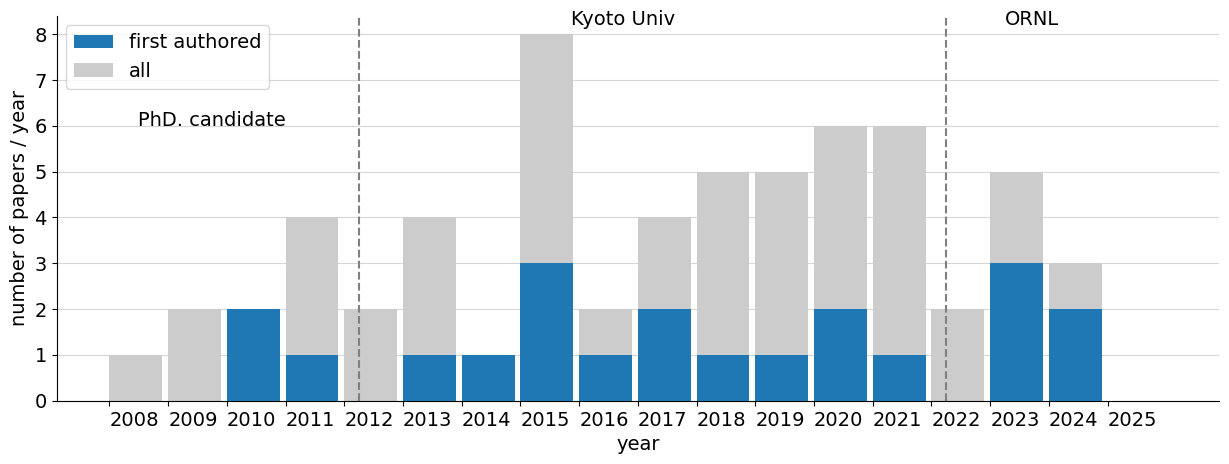
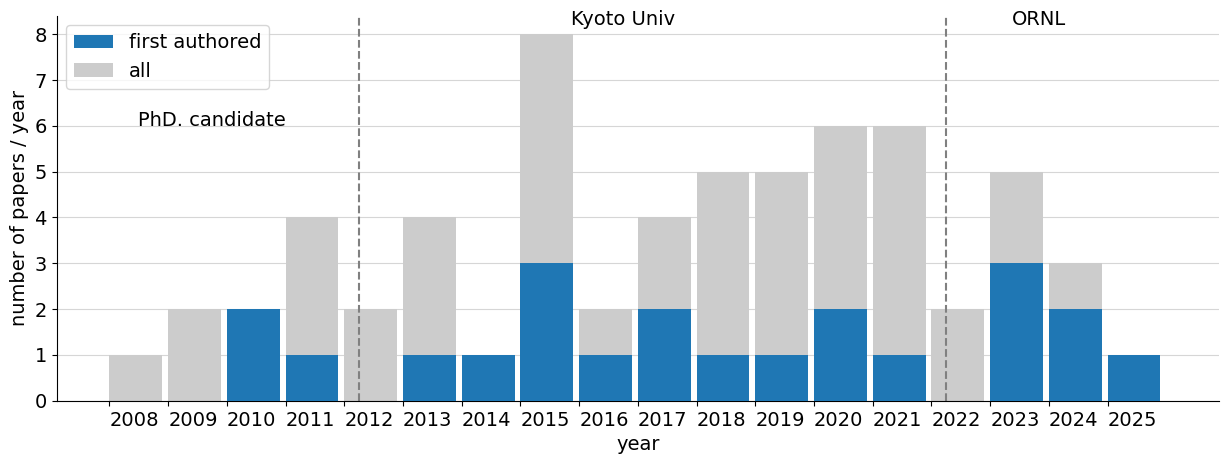
Updated papers

Changed region(s): [[0.8967, 0.7543, 0.9585, 0.875], [0.8039, 0.0, 0.8657, 0.0603]]

diff --git a/publications/index.md b/publications/index.md
@@ -3,133 +3,143 @@ layout: publications
 ---
 
 # List of selected papers
-1. **Collisional-energy-cascade model for nonthermal velocity distributions of neutral atoms in plasmas**  
+1. **A scaling law of the neutral penetration length and Balmer-α wing shape in high-temperature plasmas**  
+ **<u>Keisuke Fujii</u>**, Masahiro Hasuo, Motoshi Goto, Jeremy D. Lore  
+ *Nuclear Fusion* **65,** 066014 (2025)  
+<a href="https://doi.org/10.1088/1741-4326/add358">10.1088/1741-4326/add358</a>  
+
+2. **Collisional-energy-cascade model for nonthermal velocity distributions of neutral atoms in plasmas**  
  **<u>Keisuke Fujii</u>**  
  *Physical Review E* **108,** 025204 (2023)  
 <a href="https://doi.org/10.1103/PhysRevE.108.025204">10.1103/PhysRevE.108.025204</a>  
 
-2. **Power-Law Intensity Distribution of γ-Decay Cascades: Nuclear Structure as a Scale-Free Random Network**  
+3. **Power-Law Intensity Distribution of γ-Decay Cascades: Nuclear Structure as a Scale-Free Random Network**  
  **<u>Keisuke Fujii</u>**, Julian C. Berengut  
  *Physical Review Letters* **126,** 102502 (2021)  
 <a href="https://doi.org/10.1103/PhysRevLett.126.102502">10.1103/PhysRevLett.126.102502</a>  
 
-3. **Simple Explanation for the Observed Power Law Distribution of Line Intensity in Complex Many-Electron Atoms**  
+4. **Simple Explanation for the Observed Power Law Distribution of Line Intensity in Complex Many-Electron Atoms**  
  **<u>Keisuke Fujii</u>**, Julian C. Berengut  
  *Physical Review Letters* **124,** 185002 (2020)  
 <a href="https://doi.org/10.1103/physrevlett.124.185002">10.1103/physrevlett.124.185002</a>  
 
-4. **Study of neutral hydrogen transport in LHD core plasmas based on high dynamic-range Balmer-αspectroscopy**  
+5. **Study of neutral hydrogen transport in LHD core plasmas based on high dynamic-range Balmer-αspectroscopy**  
  **<u>K. Fujii</u>**, M. Goto, S. Morita,  The LHD Experiment Group  
  *Nuclear Fusion* **55,** 063029 (2015)  
 <a href="https://doi.org/10.1088/0029-5515/55/6/063029">10.1088/0029-5515/55/6/063029</a>  
 
-5. **Development of a high dynamic range spectroscopic system for observation of neutral hydrogen atom density distribution in Large Helical Device core plasma**  
+6. **Development of a high dynamic range spectroscopic system for observation of neutral hydrogen atom density distribution in Large Helical Device core plasma**  
  **<u>K. Fujii</u>**, S. Atsumi, S. Watanabe, T. Shikama, M. Goto, S. Morita, M. Hasuo  
  *Review of Scientific Instruments* **85,** 023502 (2014)  
 <a href="https://doi.org/10.1063/1.4863650">10.1063/1.4863650</a>  
 
 # List of papers (first- and corresponding-author)
-1. **Experimental validation of a collision-radiation dataset for molecular hydrogen in plasmas**  
+1. **A scaling law of the neutral penetration length and Balmer-α wing shape in high-temperature plasmas**  
+ **<u>Keisuke Fujii</u>**, Masahiro Hasuo, Motoshi Goto, Jeremy D. Lore  
+ *Nuclear Fusion* **65,** 066014 (2025)  
+<a href="https://doi.org/10.1088/1741-4326/add358">10.1088/1741-4326/add358</a>  
+
+2. **Experimental validation of a collision-radiation dataset for molecular hydrogen in plasmas**  
  **<u>Keisuke Fujii</u>**, Keiji Sawada, Arseniy Kuzmin, Motoshi Goto, Masahiro Kobayashi, Liam H. Scarlett, Dmitry V. Fursa, Igor Bray, Mark C. Zammit, Theodore M. Biewer  
  *Physics of Plasmas* **31,** 092512 (2024)  
 <a href="https://doi.org/10.1063/5.0220933">10.1063/5.0220933</a>  
 
-2. **Conceptual design of a Doppler spectrometer for 102 m/s cross-field flows in tokamak divertors**  
+3. **Conceptual design of a Doppler spectrometer for 102 m/s cross-field flows in tokamak divertors**  
  **<u>K. Fujii</u>**, R. Sano, T. Nakano, G. Ronchi, J.-S. Park, J. D. Lore, M. Shafer, T. M. Biewer  
  *Review of Scientific Instruments* **95,** 073527 (2024)  
 <a href="https://doi.org/10.1063/5.0219456">10.1063/5.0219456</a>  
 
-3. **Plasma-parameter dependence of ro-vibrational temperatures for H2 in LHD divertor**  
+4. **Plasma-parameter dependence of ro-vibrational temperatures for H2 in LHD divertor**  
  **<u>Keisuke Fujii</u>**, Tsubasa Oshioka, Atsushi Niihama, Arseniy Kuzmin, Taiichi Shikama, Masahiro Kobayashi, Masahiro Hasuo  
  *Journal of Quantitative Spectroscopy and Radiative Transfer* **310,** 108751 (2023)  
 <a href="https://doi.org/10.1016/j.jqsrt.2023.108751">10.1016/j.jqsrt.2023.108751</a>  
 
-4. **Collisional-energy-cascade model for nonthermal velocity distributions of neutral atoms in plasmas**  
+5. **Collisional-energy-cascade model for nonthermal velocity distributions of neutral atoms in plasmas**  
  **<u>Keisuke Fujii</u>**  
  *Physical Review E* **108,** 025204 (2023)  
 <a href="https://doi.org/10.1103/PhysRevE.108.025204">10.1103/PhysRevE.108.025204</a>  
 
-5. **A simple data-driven level finding method of many-electron atoms and heavy nuclei based on statistical outlier detection**  
+6. **A simple data-driven level finding method of many-electron atoms and heavy nuclei based on statistical outlier detection**  
  Kazuaki Hongu, **<u>Keisuke Fujii</u>**  
  *Journal of Physics D: Applied Physics* **56,** 244002 (2023)  
 <a href="https://doi.org/10.1088/1361-6463/acc66f">10.1088/1361-6463/acc66f</a>  
 
-6. **Power-Law Intensity Distribution of γ-Decay Cascades: Nuclear Structure as a Scale-Free Random Network**  
+7. **Power-Law Intensity Distribution of γ-Decay Cascades: Nuclear Structure as a Scale-Free Random Network**  
  **<u>Keisuke Fujii</u>**, Julian C. Berengut  
  *Physical Review Letters* **126,** 102502 (2021)  
 <a href="https://doi.org/10.1103/PhysRevLett.126.102502">10.1103/PhysRevLett.126.102502</a>  
 
-7. **Population kinetics of many-electron atoms in ionizing plasmas studied using a continuous collisional radiative model**  
+8. **Population kinetics of many-electron atoms in ionizing plasmas studied using a continuous collisional radiative model**  
  Akira Nishio, Julian C. Berengut, Masahiro Hasuo, **<u>Keisuke Fujii</u>**  
  *Physical Review E* **102,** 053211 (2020)  
 <a href="https://doi.org/10.1103/PhysRevE.102.053211">10.1103/PhysRevE.102.053211</a>  
 
-8. **Simple Explanation for the Observed Power Law Distribution of Line Intensity in Complex Many-Electron Atoms**  
+9. **Simple Explanation for the Observed Power Law Distribution of Line Intensity in Complex Many-Electron Atoms**  
  **<u>Keisuke Fujii</u>**, Julian C. Berengut  
  *Physical Review Letters* **124,** 185002 (2020)  
 <a href="https://doi.org/10.1103/physrevlett.124.185002">10.1103/physrevlett.124.185002</a>  
 
-9. **Robust Regression for Automatic Fusion Plasma Analysis Based on Generative Modeling**  
+10. **Robust Regression for Automatic Fusion Plasma Analysis Based on Generative Modeling**  
  **<u>K. Fujii</u>**, C. Suzuki, M. Hasuo  
  *IEEE Transactions on Plasma Science* **47,** 3305-3314 (2019)  
 <a href="https://doi.org/10.1109/TPS.2019.2921073">10.1109/TPS.2019.2921073</a>  
 
-10. **Machine Learning of Noise in LHD Thomson Scattering System**  
+11. **Machine Learning of Noise in LHD Thomson Scattering System**  
  **<u>Keisuke Fujii</u>**, Ichihiro Yamada, Masahiro Hasuo  
  *Fusion Science and Technology* **74,** 57-64 (2018)  
 <a href="https://doi.org/10.1080/15361055.2017.1396179">10.1080/15361055.2017.1396179</a>  
 
-11. **Experimental evaluation of fractional abundance data for W23+–W28+**  
+12. **Experimental evaluation of fractional abundance data for W23+–W28+**  
  **<u>Keisuke Fujii</u>**, Daiji Kato, Nobuyuki Nakamura, Motoshi Goto, Shigeru Morita, Masahiro Hasuo  
  *Journal of Physics B: Atomic, Molecular and Optical Physics* **50,** 055004 (2017)  
 <a href="https://doi.org/10.1088/1361-6455/50/5/055004">10.1088/1361-6455/50/5/055004</a>  
 
-12. **Data-driven sensitivity inference for Thomson scattering electron density measurement systems**  
+13. **Data-driven sensitivity inference for Thomson scattering electron density measurement systems**  
  **<u>Keisuke Fujii</u>**, Ichihiro Yamada, Masahiro Hasuo  
  *Review of Scientific Instruments* **88,** 013508 (2017)  
 <a href="https://doi.org/10.1063/1.4974344">10.1063/1.4974344</a>  
 
-13. **Inversion Methods of the Balmer-α Line Profile for Hydrogen Atom Density Evaluation in High-Temperature Plasmas**  
+14. **Inversion Methods of the Balmer-α Line Profile for Hydrogen Atom Density Evaluation in High-Temperature Plasmas**  
  **<u>Keisuke Fujii</u>**, Motoshi Goto, Shigeru Morita, Masahiro Hasuo  
  *Fusion Science and Technology* **69,** 514-525 (2016)  
 <a href="https://doi.org/10.13182/FST15-168">10.13182/FST15-168</a>  
 
-14. **Visible emission spectroscopy of highly charged tungsten ions in LHD: I. Survey of new visible emission lines**  
+15. **Visible emission spectroscopy of highly charged tungsten ions in LHD: I. Survey of new visible emission lines**  
  M Shinohara, **<u>K Fujii</u>**, D Kato, N Nakamura, M Goto, S Morita, M Hasuo  
  *Physica Scripta* **90,** 125402 (2015)  
 <a href="https://doi.org/10.1088/0031-8949/90/12/125402">10.1088/0031-8949/90/12/125402</a>  
 
-15. **Visible emission spectroscopy of highly charged tungsten ions in LHD: II. Evaluation of tungsten ion temperature**  
+16. **Visible emission spectroscopy of highly charged tungsten ions in LHD: II. Evaluation of tungsten ion temperature**  
  **<u>K Fujii</u>**, Y Takahashi, Y Nakai, D Kato, M Goto, S Morita, M Hasuo  
  *Physica Scripta* **90,** 125403 (2015)  
 <a href="https://doi.org/10.1088/0031-8949/90/12/125403">10.1088/0031-8949/90/12/125403</a>  
 
-16. **Study of neutral hydrogen transport in LHD core plasmas based on high dynamic-range Balmer-αspectroscopy**  
+17. **Study of neutral hydrogen transport in LHD core plasmas based on high dynamic-range Balmer-αspectroscopy**  
  **<u>K. Fujii</u>**, M. Goto, S. Morita,  The LHD Experiment Group  
  *Nuclear Fusion* **55,** 063029 (2015)  
 <a href="https://doi.org/10.1088/0029-5515/55/6/063029">10.1088/0029-5515/55/6/063029</a>  
 
-17. **Development of a high dynamic range spectroscopic system for observation of neutral hydrogen atom density distribution in Large Helical Device core plasma**  
+18. **Development of a high dynamic range spectroscopic system for observation of neutral hydrogen atom density distribution in Large Helical Device core plasma**  
  **<u>K. Fujii</u>**, S. Atsumi, S. Watanabe, T. Shikama, M. Goto, S. Morita, M. Hasuo  
  *Review of Scientific Instruments* **85,** 023502 (2014)  
 <a href="https://doi.org/10.1063/1.4863650">10.1063/1.4863650</a>  
 
-18. **Hydrogen transport diagnostics by atomic and molecular emission line profiles simultaneously measured for large helical device**  
+19. **Hydrogen transport diagnostics by atomic and molecular emission line profiles simultaneously measured for large helical device**  
  **<u>K. Fujii</u>**, T. Shikama, M. Goto, S. Morita, M. Hasuo  
  *Physics of Plasmas* **20,** 012514 (2013)  
 <a href="https://doi.org/10.1063/1.4789454">10.1063/1.4789454</a>  
 
-19. **A Collisional-Radiative Model for Hydrogen Atom Including Velocity Changing Collisions**  
+20. **A Collisional-Radiative Model for Hydrogen Atom Including Velocity Changing Collisions**  
  **<u>Keisuke FUJII</u>**, Taiichi SHIKAMA, Keiji SAWADA, Motoshi GOTO, Shigeru MORITA, Masahiro HASUO  
  *Plasma and Fusion Research* **6,** 2401125-2401125 (2011)  
 <a href="https://doi.org/10.1585/pfr.6.2401125">10.1585/pfr.6.2401125</a>  
 
-20. **Kinetic energy measurement of hydrogen in LHD peripheral plasma with a multi-wavelength-range fine-resolution spectrometer**  
+21. **Kinetic energy measurement of hydrogen in LHD peripheral plasma with a multi-wavelength-range fine-resolution spectrometer**  
  **<u>Keisuke Fujii</u>**, Keisuke Mizushiri, Tomomi Nishioka, Taiichi Shikama, Atsushi Iwamae, Motoshi Goto, Shigeru Morita, Masahiro Hasuo  
  *Nuclear Instruments and Methods in Physics Research Section A: Accelerators, Spectrometers, Detectors and Associated Equipment* **623,** 690-692 (2010)  
 <a href="https://doi.org/10.1016/j.nima.2010.02.100">10.1016/j.nima.2010.02.100</a>  
 
-21. **Development of multiwavelength-range fine-resolution spectrometer for hydrogen emissions and its application to large helical device periphery plasmas**  
+22. **Development of multiwavelength-range fine-resolution spectrometer for hydrogen emissions and its application to large helical device periphery plasmas**  
  **<u>K. Fujii</u>**, K. Mizushiri, T. Nishioka, T. Shikama, A. Iwamae, M. Goto, S. Morita, S Kado, K. Sawada, M. Hasuo  
  *Review of Scientific Instruments* **81,** 033106 (2010)  
 <a href="https://doi.org/10.1063/1.3356730">10.1063/1.3356730</a>  
@@ -160,15 +170,15 @@ layout: publications
  *AIP Advances* **12,** 025309 (2022)  
 <a href="https://doi.org/10.1063/5.0077130">10.1063/5.0077130</a>  
 
-6. **Comprehensive Laboratory Measurements Resolving the LMM Dielectronic Recombination Satellite Lines in Ne-like Fe xvii Ions**  
- Filipe Grilo, Chintan Shah, Steffen Kühn, René Steinbrügge, **<u>Keisuke Fujii</u>**, José Marques, Ming Feng Gu, José Paulo Santos, José R. Crespo López-Urrutia, Pedro Amaro  
- *The Astrophysical Journal* **913,** 140 (2021)  
-<a href="https://doi.org/10.3847/1538-4357/abf737">10.3847/1538-4357/abf737</a>  
-
-7. **Ro-vibrational population distribution in the ground state of hydrogen isotopologues in LHD peripheral plasmas deduced from emission spectroscopy**  
+6. **Ro-vibrational population distribution in the ground state of hydrogen isotopologues in LHD peripheral plasmas deduced from emission spectroscopy**  
  Hiroki Ishihara, Arseniy Kuzmin, Masahiro Kobayashi, Taiichi Shikama, Keiji Sawada, Seiki Saito, Hiroaki Nakamura, **<u>Keisuke Fujii</u>**, Masahiro Hasuo  
  *Journal of Quantitative Spectroscopy and Radiative Transfer* **267,** 107592 (2021)  
 <a href="https://doi.org/10.1016/j.jqsrt.2021.107592">10.1016/j.jqsrt.2021.107592</a>  
+
+7. **Comprehensive Laboratory Measurements Resolving the LMM Dielectronic Recombination Satellite Lines in Ne-like Fe xvii Ions**  
+ Filipe Grilo, Chintan Shah, Steffen Kühn, René Steinbrügge, **<u>Keisuke Fujii</u>**, José Marques, Ming Feng Gu, José Paulo Santos, José R. Crespo López-Urrutia, Pedro Amaro  
+ *The Astrophysical Journal* **913,** 140 (2021)  
+<a href="https://doi.org/10.3847/1538-4357/abf737">10.3847/1538-4357/abf737</a>  
 
 8. **Application of multiple regression for sensitivity analysis of helium line emissions to the electron density and temperature in Magnum-PSI**  
  Shin Kajita, Daisuke Nishijima, **<u>Keisuke Fujii</u>**, Gijs Akkermans, Hennie van der Meiden  
